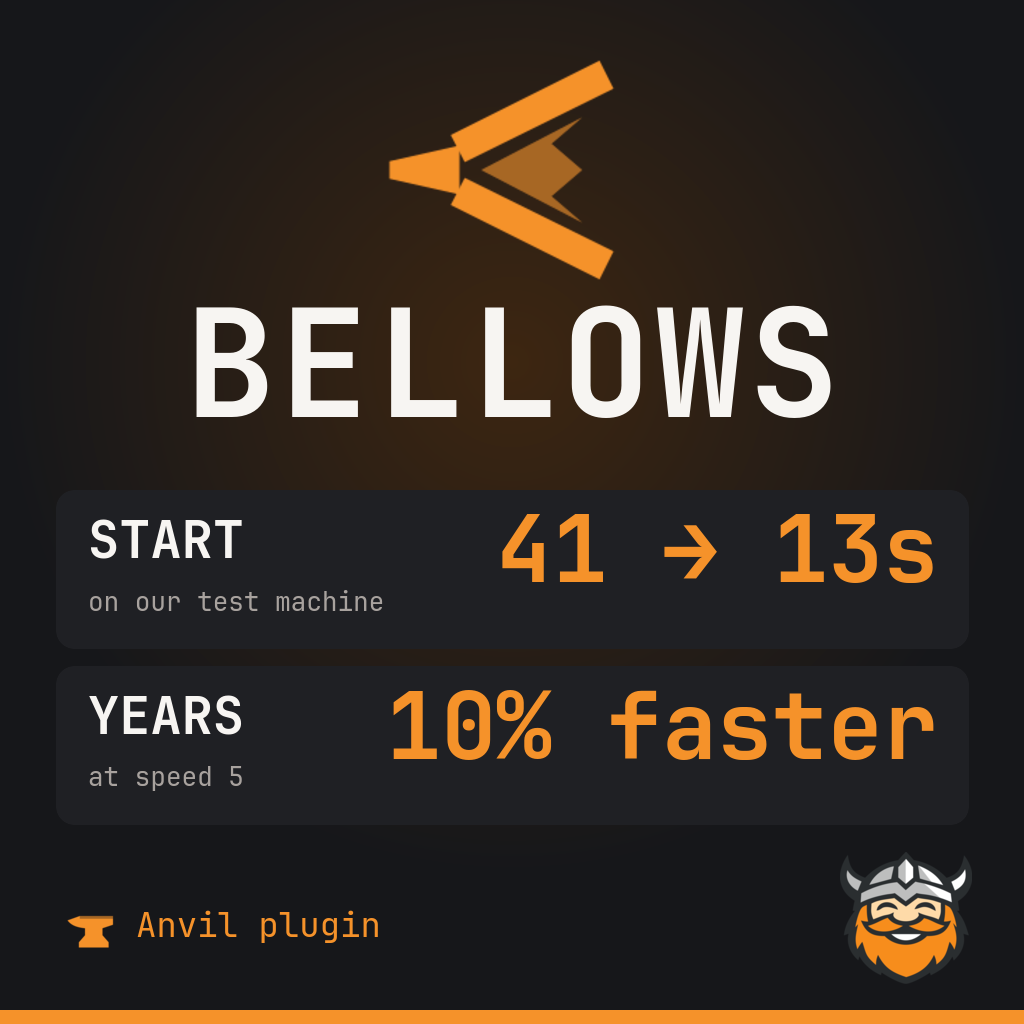
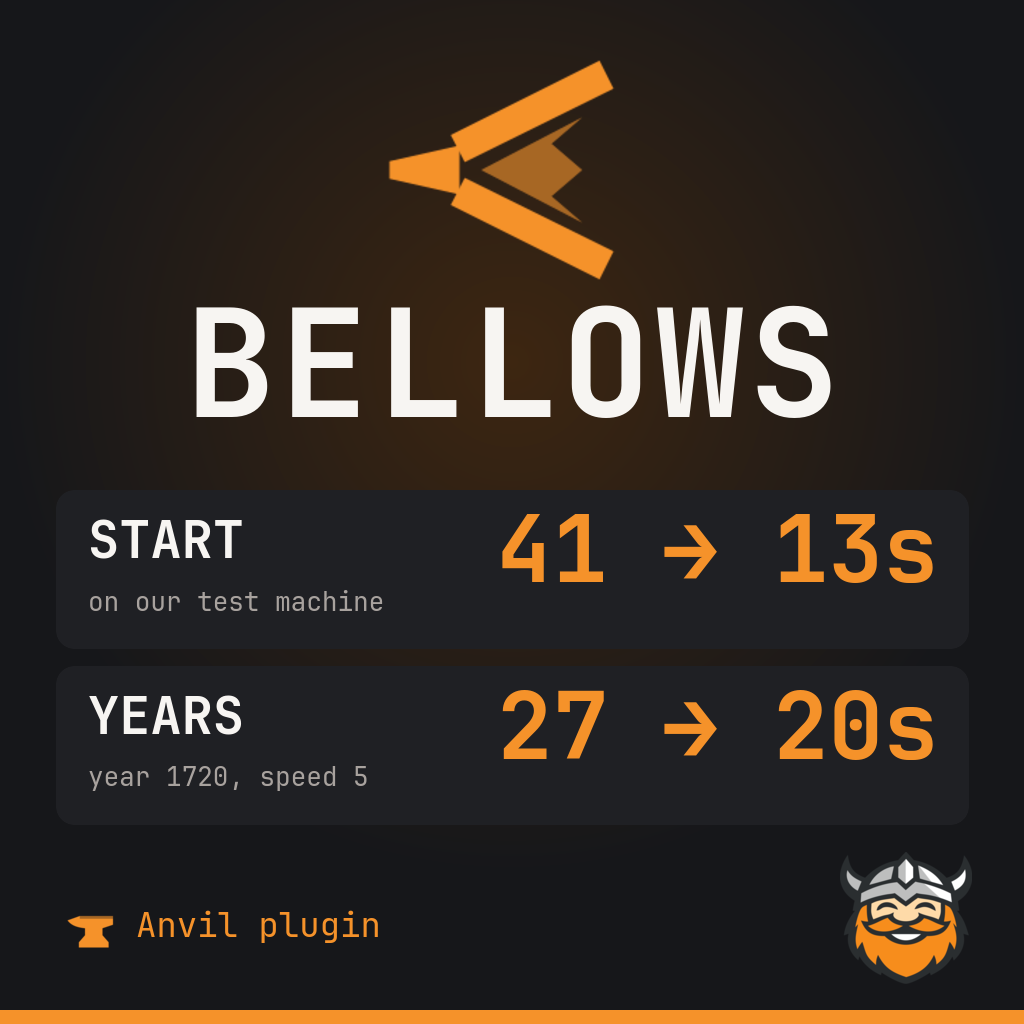
docs: the years with all default settings, measured (#122)
docs: the years with all default settings, measured, in the README and on the Workshop page

Changed region(s): [[0.375, 0.6562, 0.9062, 0.75], [0.0938, 0.75, 0.375, 0.7812]]

diff --git a/README.md b/README.md
@@ -85,6 +85,28 @@ for Anbennar's large scripted effects and makes no difference on the 10-mod set
 above. The game's logs were the same in all five pairs of starts. The first
 start after a reboot was not measured on this mod set.
 
+### A year at speed 5
+
+Every default setting together, against the same game without Bellows: EU4 1.37.5
+(Steam), original `eu4.exe`, the save of Russia on 17 March 1719, warmed up to
+1 January 1720, then the year 1720 at speed 5 with the game's main thread on one
+processor and 8 workers in both of its pools. Anvil 1.9.0, anvil-game and Tongs (which
+drives the run) were in both setups, and Bellows was a build of the code that
+became 1.2. One game per run, interleaved, each after a check that the processor
+was idle, 5 November 2026:
+
+| Setup | Year 1720 | Median |
+| --- | --- | ---: |
+| Without Bellows | 26.50 / 27.11 / 24.70 / 28.95 s | 26.80 s |
+| With Bellows, default settings | 18.72 / 21.63 / 20.92 / 20.07 s | **20.49 s** |
+
+So about a quarter less, and the two ranges do not overlap. All modules
+reported 0 differences from the game's own answers. Runs in which an event held the
+game paused were thrown out, as the method requires: 5 of the 16 in this series,
+none of them in these two setups. A late-game year has no such comparison yet: the runs
+of the 1821 save without Bellows were lost to a dialog. On one machine with one save,
+your years will differ with your processor and your campaign.
+
 ### Loading a save
 
 "Continue" on the main menu until the game is ready, EU4 1.37.5 (Steam), original

diff --git a/workshop/description.md b/workshop/description.md
@@ -1,10 +1,10 @@
 **Your game starts in about 13 seconds instead of 41. The forge gets hot sooner.**
 
-Bellows makes EU4 reach the main menu much sooner and lets the years pass a little faster at speed 5. Your game stays exactly the same: Bellows only helps it do its work quicker.
+Bellows makes EU4 reach the main menu much sooner and lets the years pass about a quarter sooner at speed 5. Your game stays exactly the same: Bellows only helps it do its work quicker.
 
 ## What you get
 - **A much shorter start:** about 13 seconds instead of 41 on our test machine (10 mods). Big mod sets gain the most: Anbennar went from about 85 seconds to about 22.
-- **Faster years at speed 5:** a year passes about 10% sooner, and the game still answers every click at once.
+- **Faster years at speed 5:** the year 1720 took about 20 seconds instead of 27 on our test machine, and the game still answers every click at once.
 - **Quicker compressed autosaves,** with the same file the game would write.
 - **Safe to keep on:** no game files or rules change, so ironman achievements stay available and multiplayer stays in sync.
 - **Measure it yourself:** the Benchmark tab in Anvil Manager compares starts with and without Bellows on your computer.
